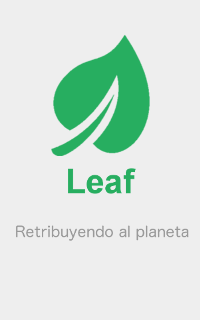
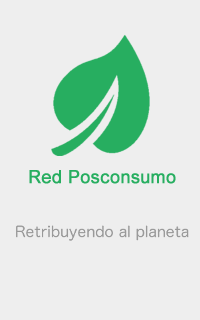
Pagina de registro

Changed region(s): [[0.12, 0.5, 0.9, 0.625]]

diff --git a/www/registro.html b/www/registro.html
@@ -1,0 +1,107 @@
+<!doctype html>
+<html lang="en">
+<head>
+	<meta charset="UTF-8">
+	<meta name="format-detection" content="telephone=no" />
+    <meta name="viewport" content="user-scalable=no, initial-scale=1, maximum-scale=1, minimum-scale=1, width=device-width, height=device-height" />
+	<title>Inicio</title>
+
+
+    <link rel="stylesheet" href="libs/theme/code/styles/colors/green.css">
+    <link rel="stylesheet" href="libs/theme/code/styles/colorbox.css">
+    <link rel="stylesheet" href="libs/theme/code/styles/framework.css">
+    <link rel="stylesheet" href="libs/theme/code/styles/owl.carousel.css">
+    <link rel="stylesheet" href="libs/theme/code/styles/owl.theme.css">
+    <link rel="stylesheet" href="libs/theme/code/styles/swipebox.css">
+    <link rel="stylesheet" href="libs/theme/code/styles/style.css">
+    <link rel="stylesheet" href="css/styles.css">
+
+
+    <script type="text/javascript" src="libs/theme/code/scripts/jquery.js"></script>
+    <script type="text/javascript" src="libs/theme/code/scripts/jquery.swipebox.js"></script>
+    <script type="text/javascript" src="libs/theme/code/scripts/jqueryui.js"></script>
+    <script type="text/javascript" src="libs/theme/code/scripts/colorbox.js"></script>
+    <script type="text/javascript" src="libs/theme/code/scripts/snap.js"></script>
+    <script type="text/javascript" src="libs/theme/code/scripts/owl.carousel.min.js"></script>
+    <script type="text/javascript" src="libs/theme/code/scripts/framework.launcher.js"></script>
+    <script type="text/javascript" src="libs/theme/code/scripts/framework.js"></script>
+    <script type="text/javascript" src="libs/theme/code/scripts/custom.js"></script>
+    <script type="text/javascript" src="libs/theme/code/scripts/contact.js"></script>
+
+	<script src="libs/js/angular.min.js"></script>
+    <script src="libs/js/angular-route.min.js"></script>
+    <script src="libs/js/angular-sanitize.min.js"></script>
+	
+    <!--
+    <script type="text/javascript" src="cordova.js"></script>
+    !-->
+
+    <script type="text/javascript" src="js/debug.js"></script>
+	<script type="text/javascript" src="js/app.js"></script>
+    <script type="text/javascript" src="js/registro.js"></script>
+    
+</head>
+<body>
+
+    <div id="preloader">
+        <div id="status">
+            <p class="center-text">
+                Cargando ...
+                <em>Depende de la velocidad de conexión!</em>
+            </p>
+        </div>
+    </div>
+
+    <div class="all-elements">
+
+        <div id="content" class="page-content indexContent">
+
+            <div class="content-controls" id="titRegistro">
+               <!-- <a href="#" class="deploy-sidebar"></a>-->
+                <em class="content-title" id="emRegistro"></em>
+                <div class="divImgLogos">
+                    <img class="imgLogos" src="img/Picture1Min.jpg" alt="">
+                    <img class="imgLogos" src="img/Picture1Pros.jpg" alt="">
+                </div>
+            </div>
+
+
+            <div class="content inicio" id="logoRegistro">
+                <h1 class="center-text">
+                    <img class="logo" src="img/leaf2.png" alt="">Red Posconsumo
+                </h1>
+            </div>
+
+
+            <div class="content">
+                <h4 class="center-text subTitRegistro" id="subTitHome">Retribuyendo al planeta</h4>
+            </div>
+
+            <div class="content">
+                <div class="decoration"></div>
+            </div>
+
+            <div class="content ppalRegistro">
+                <h4 class="center-text" id="subTitHome">Bienvenido</h4>
+                <input type="text" id="txtRegistro" placeholder="Escriba su nombre" value="" maxlength="40"></input>
+                <label id="alertaRegistro">Puede escribir su nombre más tarde</label>
+            <p class="center-text">
+                <button class="button button-green btnRgis" onclick="GuardarNom()">Guardar</button>
+                <button class="button button-green btnRgis" onclick="MasTarde()">Más tarde</button>
+            </p>
+            
+            </div>
+
+        </div>
+    <div>
+
+	<script type="text/javascript" >
+		app.initialize()
+        $( document ).ready(function() {
+            $("#alertaRegistro").css("display", "none");
+            configurar_db();
+            consultarRegistro();
+        });
+	</script>
+</body>
+</html>

diff --git a/www/js/registro.js b/www/js/registro.js
@@ -1,0 +1,101 @@
+function configurar_db() {
+
+    function execute(tx) {
+        tx.executeSql('CREATE TABLE IF NOT EXISTS registro (nombre)');
+        //tx.executeSql("INSERT INTO favoritos (fecha_ingreso, convocatoria, fecha_fin) "+
+        //     "SELECT '2013-10-03', 'ABCconvocatoria', '2013-10-10' WHERE NOT EXISTS (SELECT * FROM favoritos WHERE convocatoria = 'ABCconvocatoria')");
+    }
+
+    function error(error) {
+        console.log("Error al configurar base de datos", error)
+    }
+
+    function exito() {
+        console.log("Configuración de base de datos exitosa")
+    }
+
+    var db = window.openDatabase("bd_redposconsumo", "1.0", "Registro", 200000);
+    db.transaction(execute, error, exito);
+
+}
+
+function consultarRegistro() {
+    var db = window.openDatabase("bd_redposconsumo", "1.0", "Consultar registro", 200000);
+    db.transaction(consultarExisteRegistro, errorOperacionConsulta, efectuadaOperacionConsulta);
+}
+
+function consultarExisteRegistro(tx) {
+    tx.executeSql('SELECT * FROM registro', [], crearVariableRegistro, function (error) {
+        console.log("consulta nombre fin error: " + error)
+    });
+}
+
+
+//Si la consulta retorna un registro cualquiera
+//pone en la variable local ese valor (puede ser un nombre o "Agregar nombre")
+//Sino no redirecciona a ningún lado y muestra la pantalla de registro
+function crearVariableRegistro(tx, results) {
+    var len = results.rows.length;
+    var nom = "";
+    if (len > 0) {
+        if(results.rows.item(0).nombre != ""){
+            nom = results.rows.item(0).nombre;
+        }
+        localStorage.setItem("NombreRegistro", nom);
+        redireccionarIndex();
+    }
+}
+
+function errorOperacionConsulta(err) {
+    console.log(err);
+    alert("Error procesando la consulta de nombre : " + err);
+}
+
+function efectuadaOperacionConsulta() {
+    console.log("Información consultada!");
+}
+
+function GuardarNom() {
+    var db = window.openDatabase("bd_redposconsumo", "1.0", "Guardar nombre", 200000);
+    db.transaction(GuardarRegistro, errorOperacionGuardar, efectuadaOperacionGuardar);
+}
+
+function GuardarRegistro(tx) {
+    var valor = $("#txtRegistro").val();
+    if(valor != ""){
+        localStorage.setItem("NombreRegistro", valor);
+         tx.executeSql("INSERT INTO registro (nombre) VALUES ('"+valor+"')", [], redireccionar, function (error) {
+            console.log("Guardar nombre error: " + error)
+        });
+    }else{
+        $("#alertaRegistro").css("display", "block");
+    }
+}
+
+function errorOperacionGuardar(err) {
+    console.log("Error realizando el registro : " + err);
+}
+
+function efectuadaOperacionGuardar() {
+    console.log("Información registrada!");
+}
+
+function redireccionarIndex() {
+    window.location.href = "index.html";
+}
+
+function MasTarde() {
+    var db = window.openDatabase("bd_redposconsumo", "1.0", "Guardar mas tarde", 200000);
+    db.transaction(GuardarMasTarde, errorOperacionGuardar, efectuadaOperacionGuardar);
+}
+
+function GuardarMasTarde(tx) {
+    localStorage.setItem("NombreRegistro", "Agregar nombre");
+    tx.executeSql("INSERT INTO registro (nombre) VALUES ('Agregar nombre')", [], redireccionar, function (error) {
+        console.log("Guardar Agregar nombre error: " + error)
+    });
+}
+
+function redireccionar(tx, results) {
+    redireccionarIndex();
+}

diff --git a/www/index.html b/www/index.html
@@ -38,6 +38,7 @@
 
     <script type="text/javascript" src="js/debug.js"></script>
 	<script type="text/javascript" src="js/app.js"></script>
+    <script type="text/javascript" src="js/registro.js"></script>
     
 </head>
 <body>
@@ -63,7 +64,7 @@
                 </div>
 
                 <div class="sidebar-header">
-                    <h4 class="center-text">Cristian Jimenez</h4>
+                    <h4 class="center-text" id="nombreUsuario"></h4>
                     <em class="center-text">150 puntos</em>
                 </div>
 
@@ -207,7 +208,7 @@ Porque despues de usar, hay que colectar
 				</div>
 			</div>
 
-            <div class="decoration hide-if-responsive"></div>
+            <div class="decoration hide-if-responsive" id="decoration-intermedio"></div>
 
             <div class="one-half-responsive last-column">
 				
@@ -247,6 +248,12 @@ Porque despues de usar, hay que colectar
 
 	<script type="text/javascript" >
 		app.initialize()
+        $( document ).ready(function() {
+           var nombre = localStorage.getItem("NombreRegistro");
+           $("#nombreUsuario").text(nombre);
+            configurar_db();
+        });
+        
 	</script>
 </body>
 </html>

diff --git a/www/css/styles.css b/www/css/styles.css
@@ -136,6 +136,10 @@ body .button{
 	margin-bottom: 10px;
 }
 
+#decoration-intermedio{
+    margin-top: 10px;
+}
+
 #encHome{
 	position:relative;
 	background: #fff;
@@ -210,6 +214,46 @@ body .button{
     border: 1px solid #ccc;
     margin-bottom: 10px;
     padding-left: 4px;
+}
+
+#titRegistro{
+    margin-top: 10px !important;
+    height: 50px;
+}
+
+#emRegistro{
+    margin-top: 10px !important;
+}
+
+.subTitRegistro{
+    color: #9F9C9C;
+}
+
+#logoRegistro{
+    margin-top: 20%;
+}
+
+#txtRegistro{
+    margin: 0 auto;
+    width: 80%;
+    border: solid 1px #ccc;
+    padding: 3px;
+    font-size: 14px;
+}
+
+.btnRgis{
+    font-size: 14px !important;
+    margin-top: 10px;
+} 
+
+.ppalRegistro{
+    margin-top: 20px;
+}
+
+#alertaRegistro{
+    margin: 0 auto;
+    width: 80%;
+    color: red;
 }
 
 @media (min-width: 760px){
